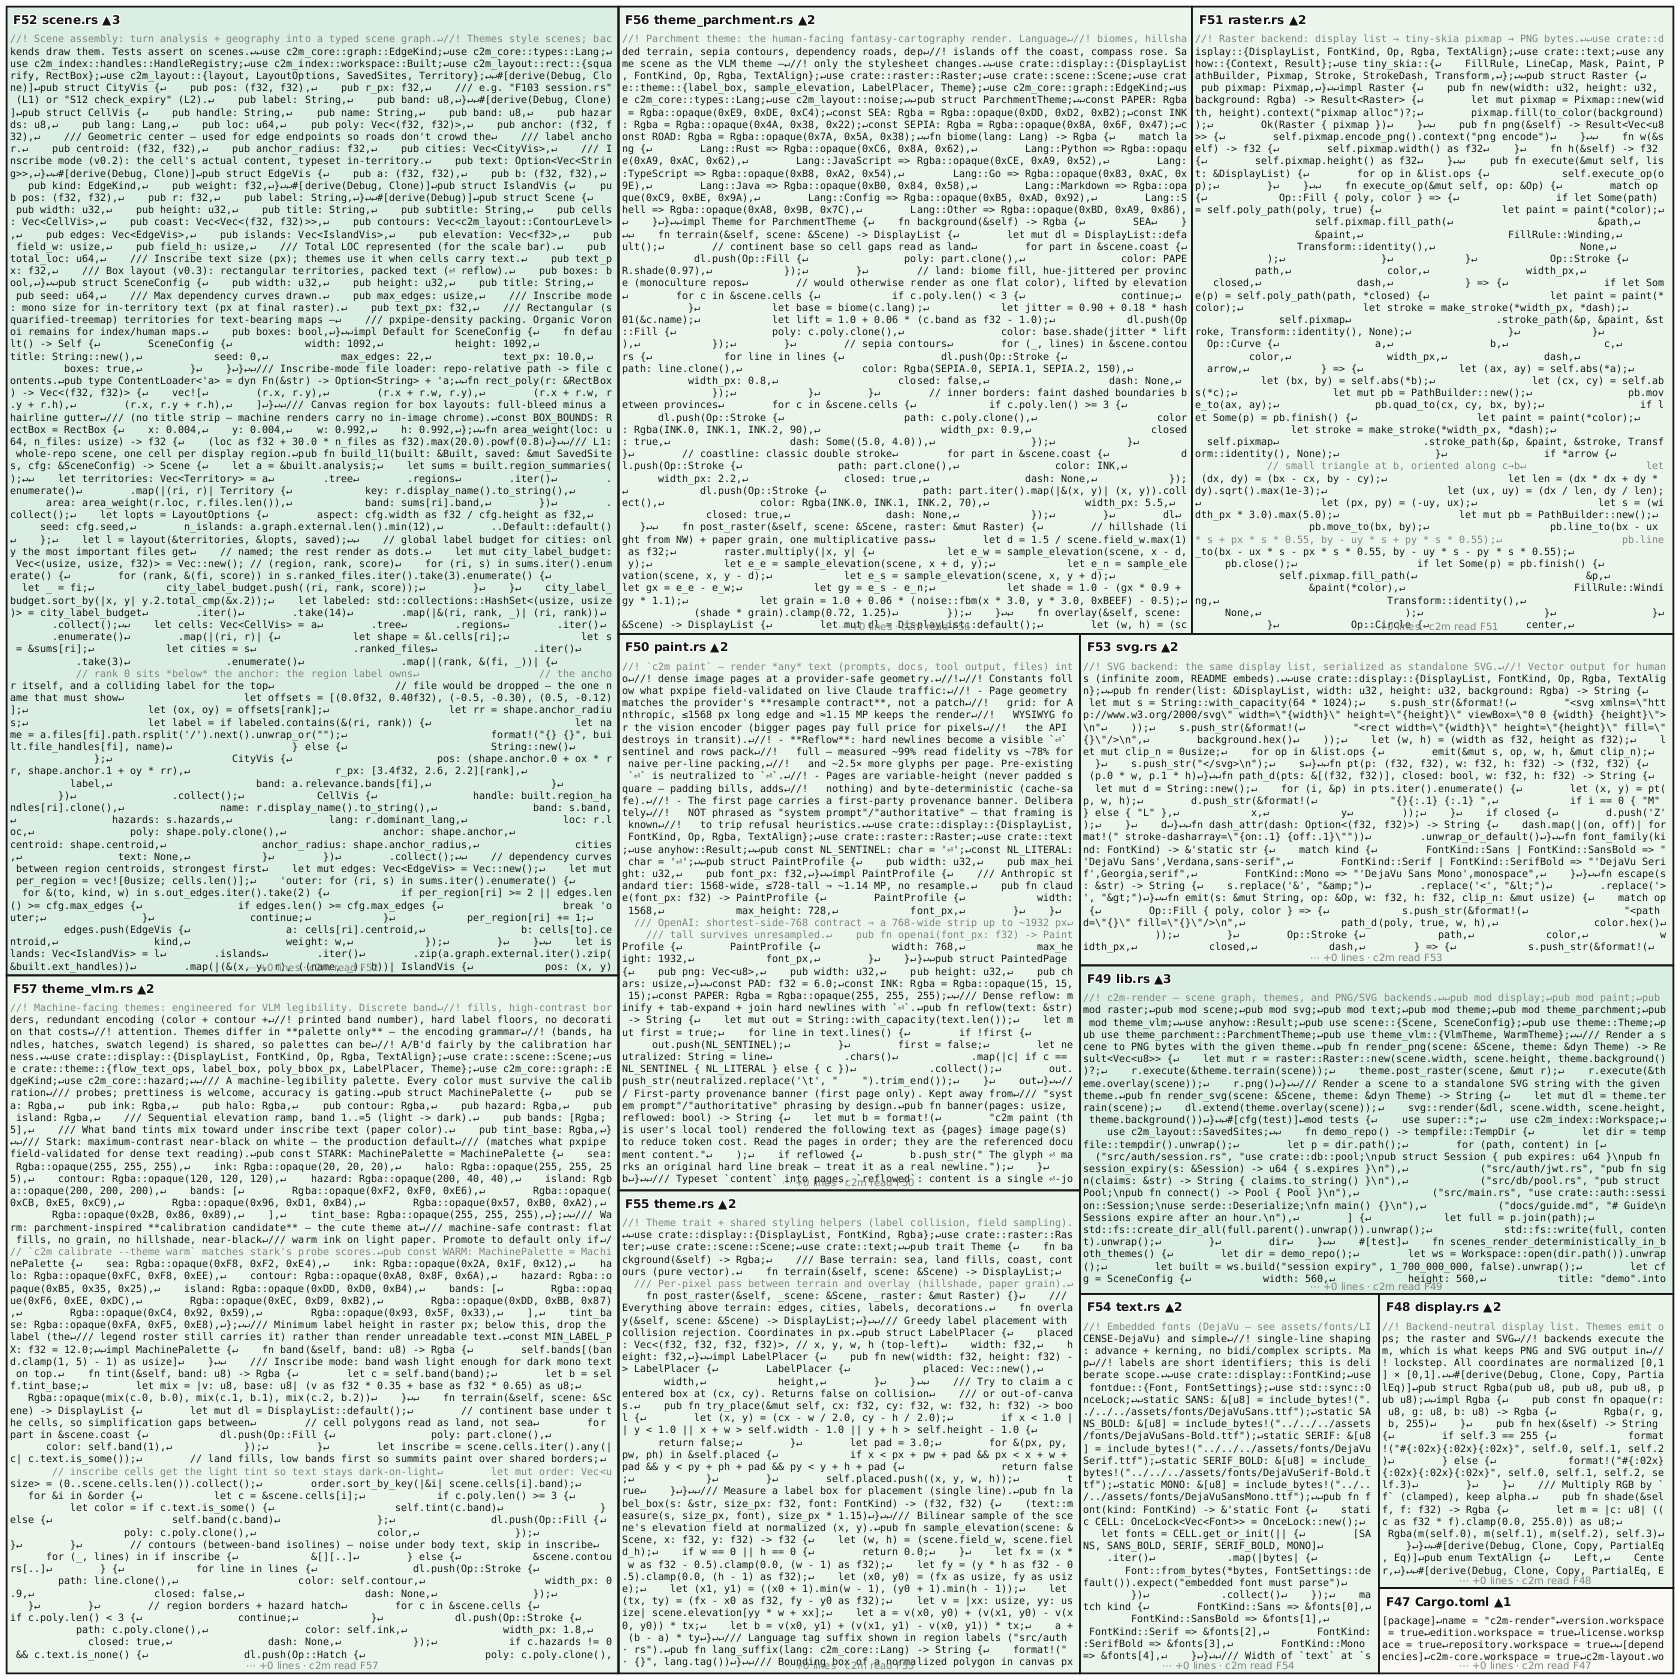
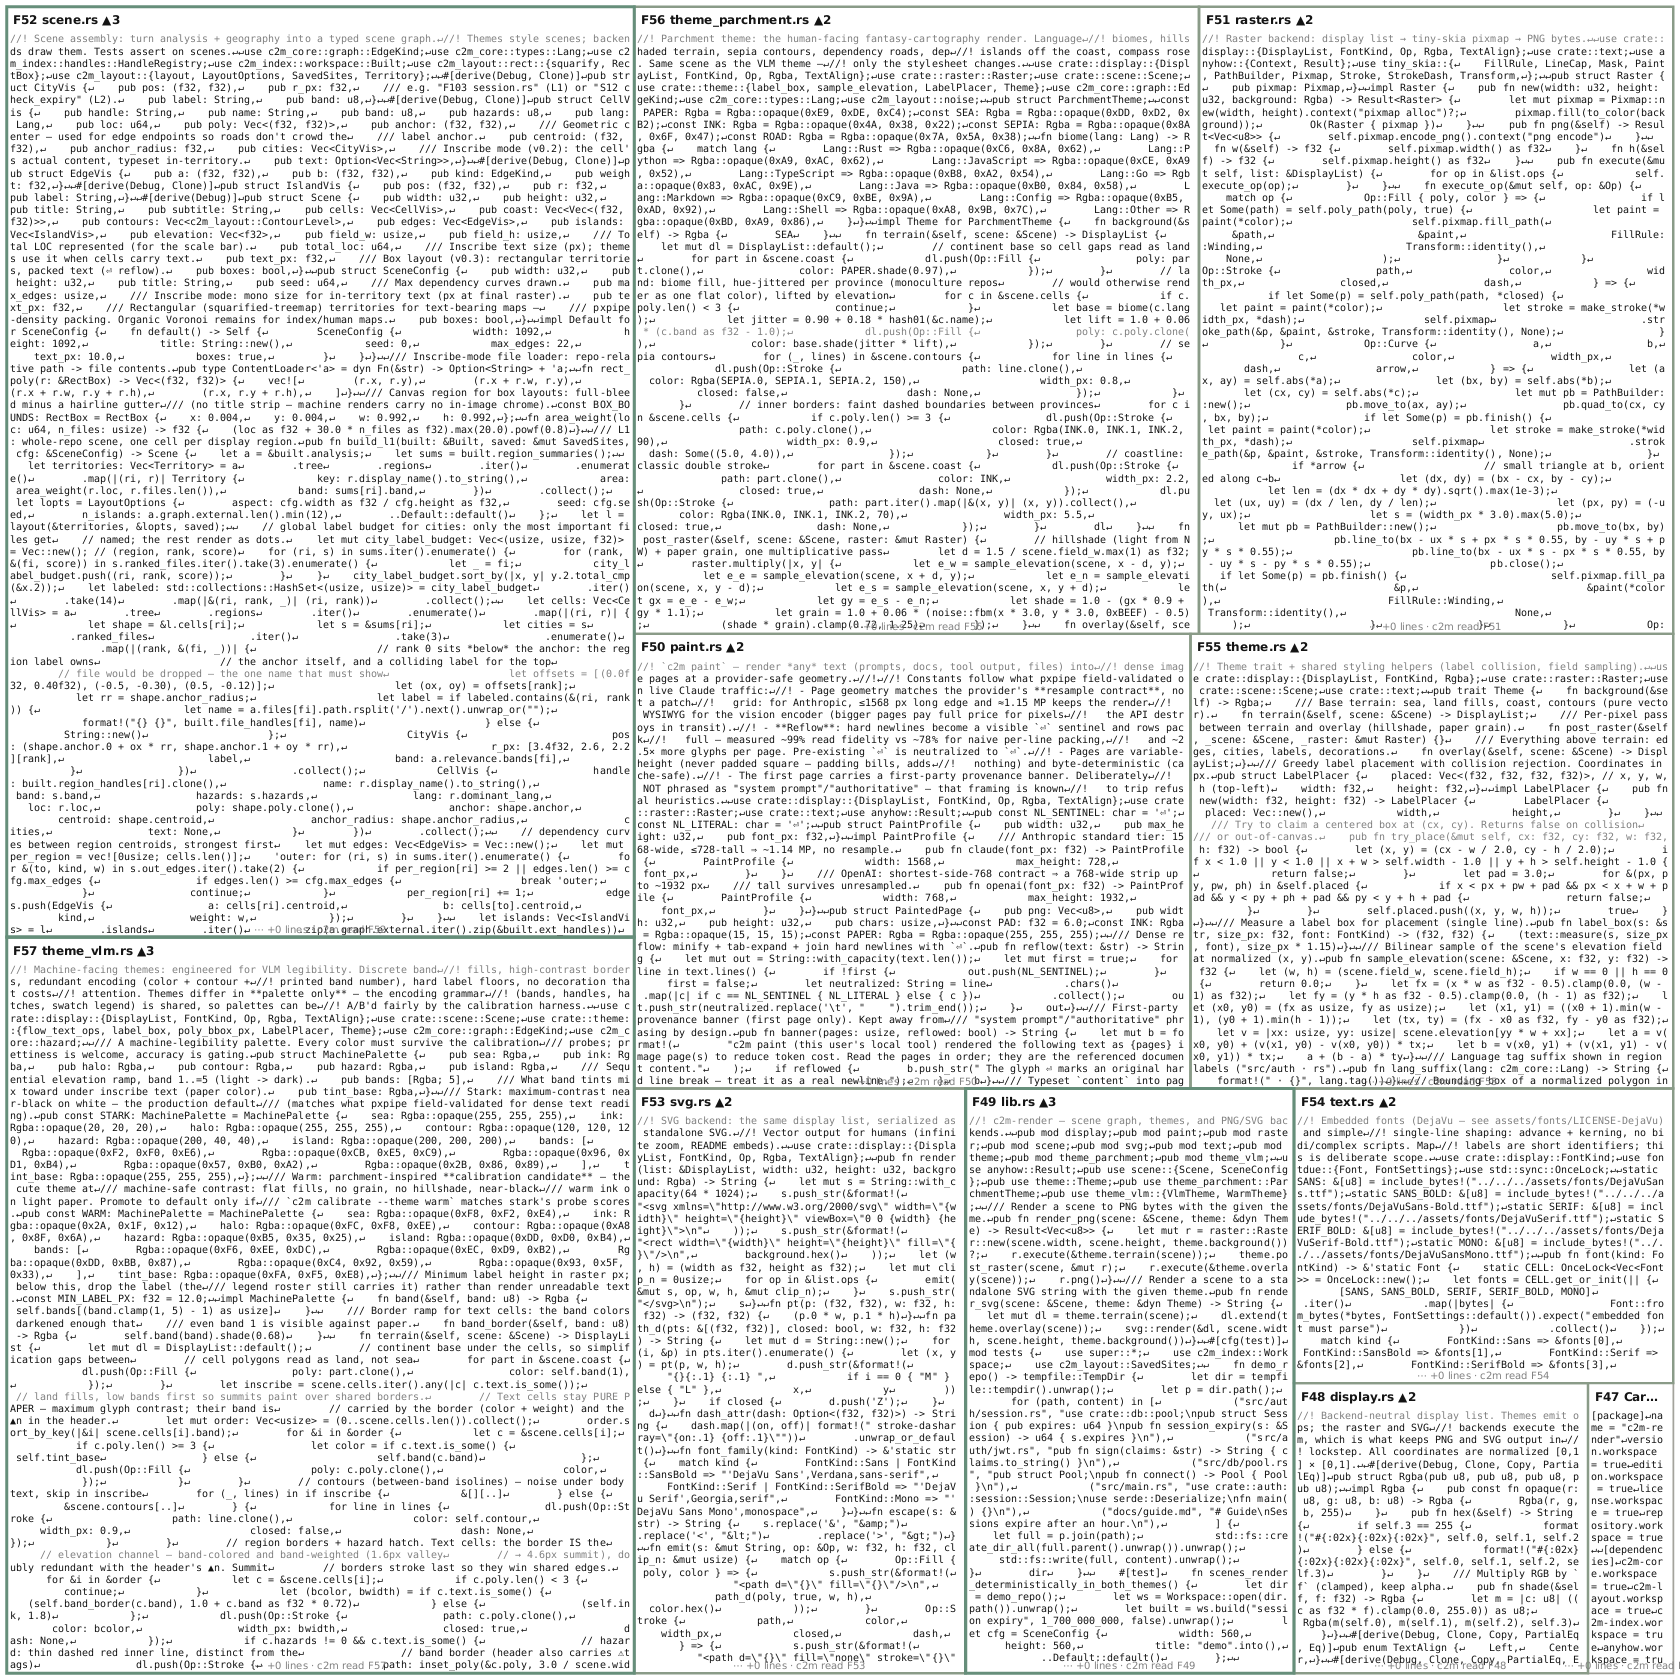
Elevation moves from background tint to band-colored borders
Text cells now render on pure paper — maximum contrast for every
glyph, per the black-on-white evidence — and carry their elevation
band on the border instead: band color (darkened ramp so band 1 is
visible) plus band-scaled weight (1.7px valley -> 4.6px summit),
doubly redundant with the header's printed ▲n. Summit borders stroke
last so they win shared edges. Hazard becomes a thin dashed red inner
line (plus the header ⚠tags), distinct from the band channel. The
band_tint wash is gone; index-atlas choropleth fills are unchanged
(no body text there to tax).

diff --git a/crates/c2m-render/src/theme_vlm.rs b/crates/c2m-render/src/theme_vlm.rs
@@ -75,12 +75,10 @@ impl MachinePalette {
         self.bands[(band.clamp(1, 5) - 1) as usize]
     }
 
-    /// Inscribe mode: band wash light enough for dark mono text on top.
-    fn tint(&self, band: u8) -> Rgba {
-        let c = self.band(band);
-        let b = self.tint_base;
-        let mix = |v: u8, base: u8| (v as f32 * 0.35 + base as f32 * 0.65) as u8;
-        Rgba::opaque(mix(c.0, b.0), mix(c.1, b.1), mix(c.2, b.2))
+    /// Border ramp for text cells: the band colors darkened enough that
+    /// even band 1 is visible against paper.
+    fn band_border(&self, band: u8) -> Rgba {
+        self.band(band).shade(0.68)
     }
 
     fn terrain(&self, scene: &Scene) -> DisplayList {
@@ -94,15 +92,16 @@ impl MachinePalette {
             });
         }
         let inscribe = scene.cells.iter().any(|c| c.text.is_some());
-        // land fills, low bands first so summits paint over shared borders;
-        // inscribe cells get the light tint so text stays dark-on-light
+        // land fills, low bands first so summits paint over shared borders.
+        // Text cells stay PURE PAPER — maximum glyph contrast; their band is
+        // carried by the border (color + weight) and the ▲n in the header.
         let mut order: Vec<usize> = (0..scene.cells.len()).collect();
         order.sort_by_key(|&i| scene.cells[i].band);
         for &i in &order {
             let c = &scene.cells[i];
             if c.poly.len() >= 3 {
                 let color = if c.text.is_some() {
-                    self.tint(c.band)
+                    self.tint_base
                 } else {
                     self.band(c.band)
                 };
@@ -128,18 +127,38 @@ impl MachinePalette {
                 });
             }
         }
-        // region borders + hazard hatch
-        for c in &scene.cells {
+        // region borders + hazard hatch. Text cells: the border IS the
+        // elevation channel — band-colored and band-weighted (1.6px valley
+        // → 4.6px summit), doubly redundant with the header's ▲n. Summit
+        // borders stroke last so they win shared edges.
+        for &i in &order {
+            let c = &scene.cells[i];
             if c.poly.len() < 3 {
                 continue;
             }
+            let (bcolor, bwidth) = if c.text.is_some() {
+                (self.band_border(c.band), 1.0 + c.band as f32 * 0.72)
+            } else {
+                (self.ink, 1.8)
+            };
             dl.push(Op::Stroke {
                 path: c.poly.clone(),
-                color: self.ink,
-                width_px: 1.8,
+                color: bcolor,
+                width_px: bwidth,
                 closed: true,
                 dash: None,
             });
+            if c.hazards != 0 && c.text.is_some() {
+                // hazard: thin dashed red inner line, distinct from the
+                // band border (header also carries ⚠tags)
+                dl.push(Op::Stroke {
+                    path: inset_poly(&c.poly, 3.0 / scene.width as f32),
+                    color: self.hazard,
+                    width_px: 1.2,
+                    closed: true,
+                    dash: Some((5.0, 3.0)),
+                });
+            }
             if c.hazards != 0 && c.text.is_none() {
                 dl.push(Op::Hatch {
                     poly: c.poly.clone(),
@@ -372,6 +391,22 @@ impl Theme for WarmTheme {
     fn overlay(&self, scene: &Scene) -> DisplayList {
         WARM.overlay(scene)
     }
+}
+
+/// Shrink a polygon toward its centroid by roughly `d` (normalized units).
+fn inset_poly(poly: &[(f32, f32)], d: f32) -> Vec<(f32, f32)> {
+    let n = poly.len().max(1) as f32;
+    let (cx, cy) = poly
+        .iter()
+        .fold((0.0, 0.0), |(ax, ay), &(x, y)| (ax + x / n, ay + y / n));
+    poly.iter()
+        .map(|&(x, y)| {
+            let (dx, dy) = (x - cx, y - cy);
+            let len = (dx * dx + dy * dy).sqrt().max(1e-6);
+            let f = (1.0 - d / len).max(0.0);
+            (cx + dx * f, cy + dy * f)
+        })
+        .collect()
 }
 
 /// Control point: midpoint pushed perpendicular for a gentle arc.